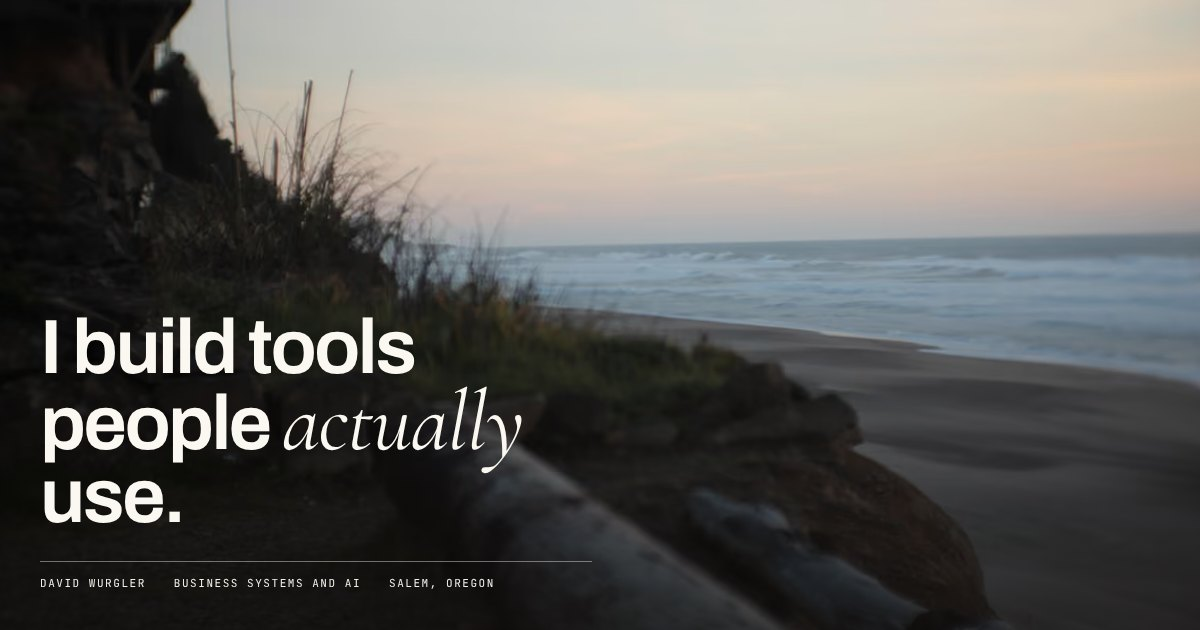
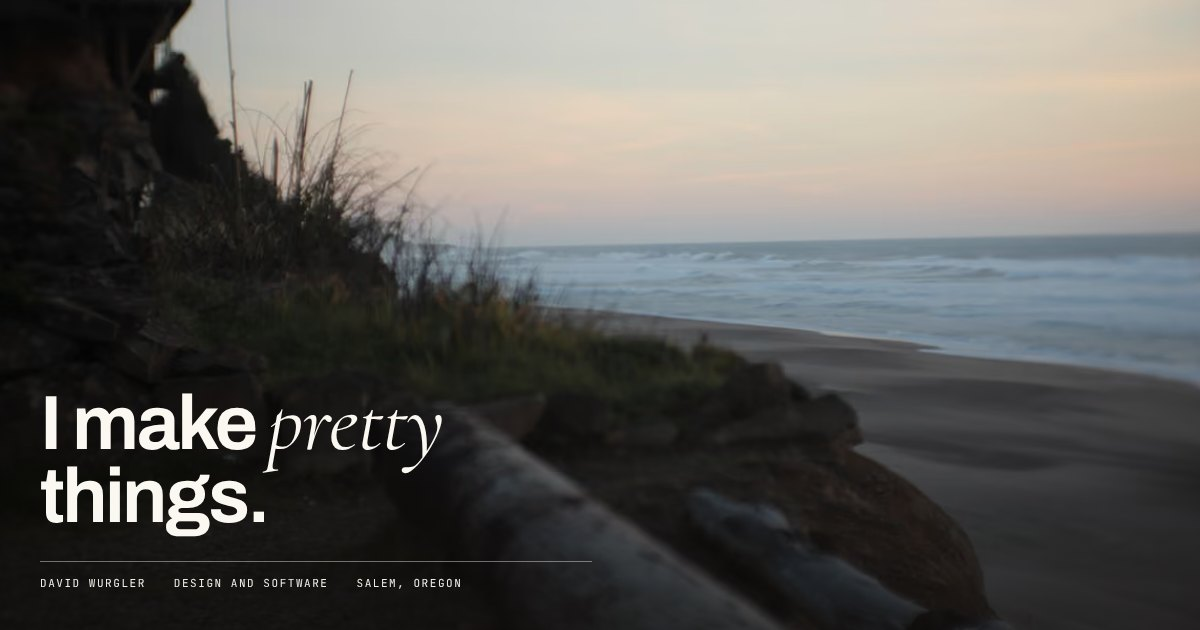
Hero: I make pretty things.
Claude-Session: https://claude.ai/code/session_01PCTozQb23zVjz1M15wtUfx

Changed region(s): [[0.0308, 0.4825, 0.4317, 0.8746], [0.1542, 0.9048, 0.4008, 0.9349]]

diff --git a/CLAUDE.md b/CLAUDE.md
@@ -9,7 +9,7 @@ One job: someone landing here should understand in about 30 seconds that David d
 ### Direction (David, 2026-11-10)
 
 - **Position:** a designer and builder of software, with AI as the method. Design and UI/UX are the strength; Claude Code is how one person ships at that level. Never call it "vibe coding" on the site.
-- **Hero line:** keep "I build tools people actually use." David uses it on his app sites too.
+- **Hero line:** "I make pretty things." with "pretty" as the italic word, matching David's GitHub and Threads bio (2026-11-10). The label under it reads "Design and software."
 - **Work:** the apps lead, Firn first. Copywriter Lab and Alfred stay as proof that his tools get daily use by a real team. The back-office (ERP) rebuild shrinks to a line or goes; ask David.
 - **How I build:** becomes the centrepiece. The stats row (3 days → 1 report, 10 weeks, 500+) is cut.
 - **Off the clock and music:** unchanged.
@@ -150,7 +150,7 @@ These are the only claims and numbers allowed. Never invent or round up a number
 
 ### Voice
 
-Write plainly and directly, like a person talking. Use short sentences, no hype, and no buzzwords. Always use the serial comma. The copy in the mockup is the approved draft; keep it unless David changes it. David has changed the hero headline to "I build tools people actually use."
+Write plainly and directly, like a person talking. Use short sentences, no hype, and no buzzwords. Always use the serial comma. The copy in the mockup is the approved draft; keep it unless David changes it. David has changed the hero headline to "I make pretty things." (2026-11-10).
 
 ### Assets
 
